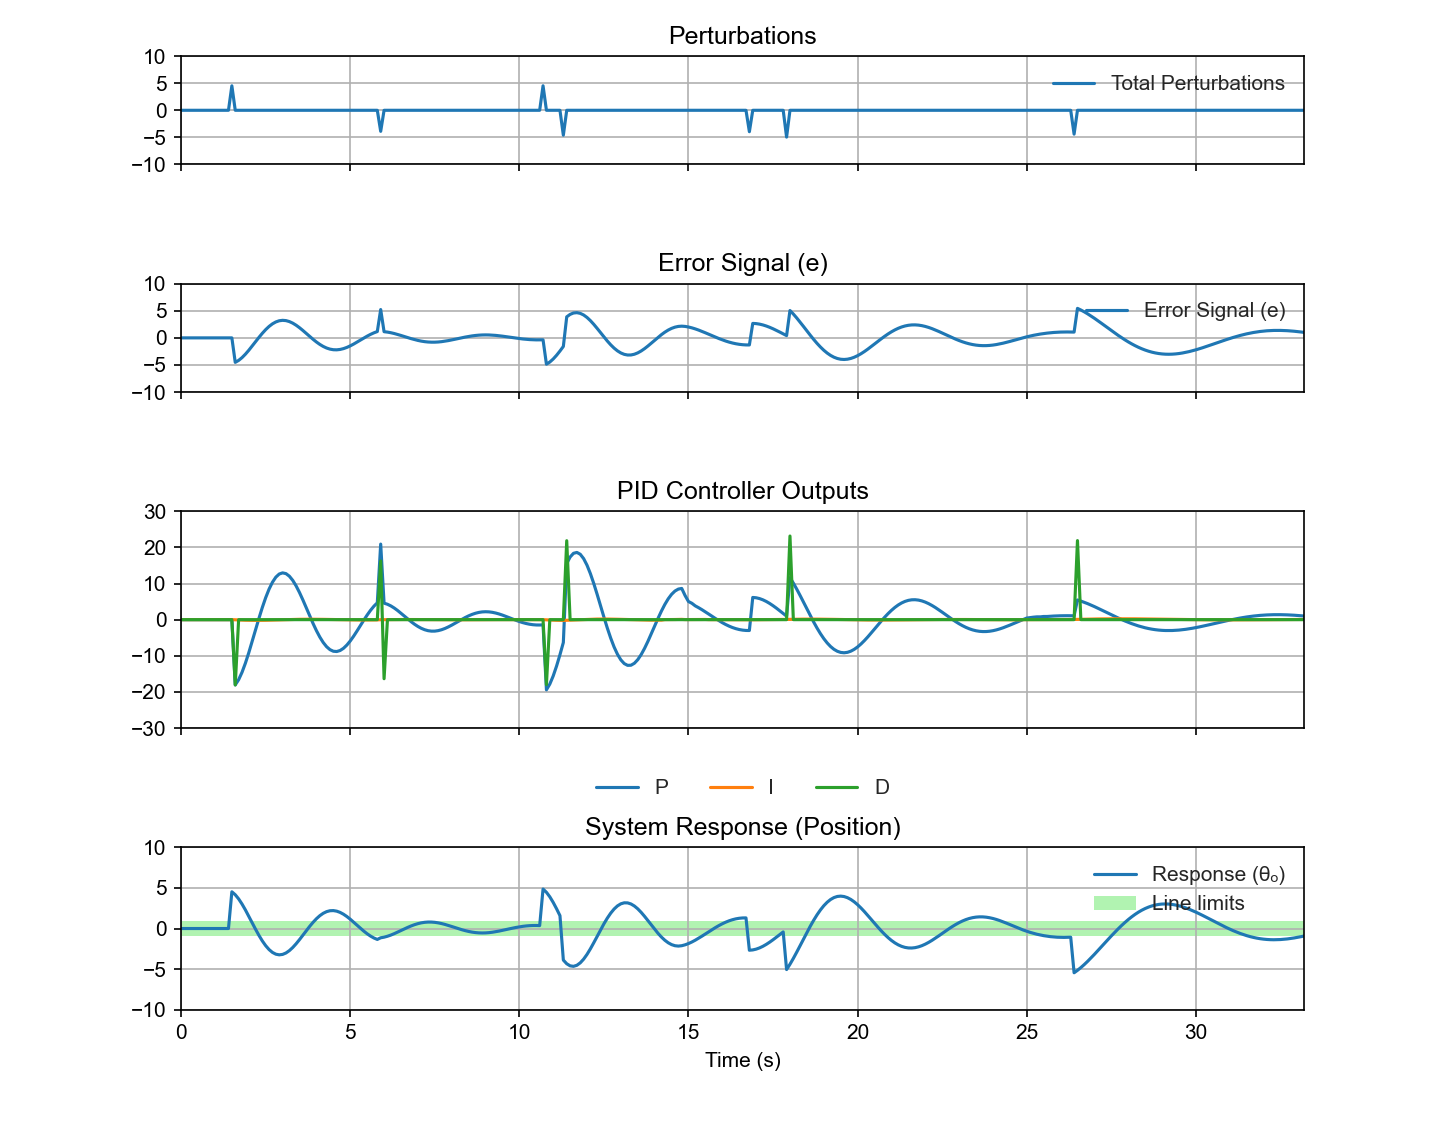
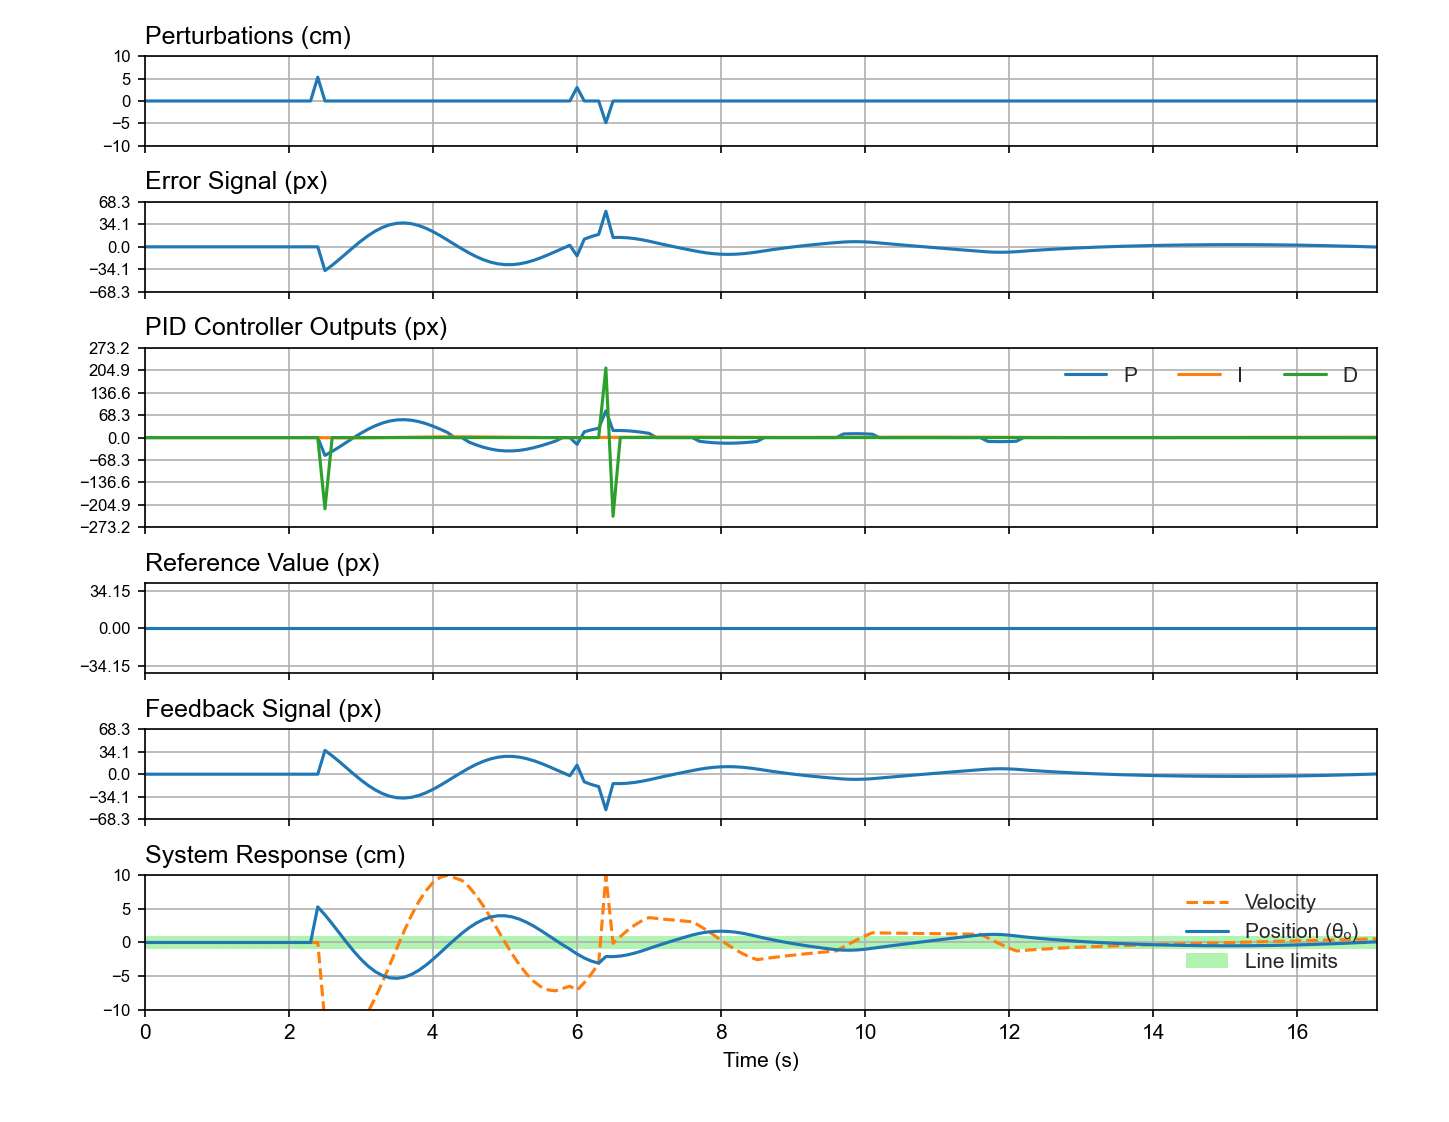
- Agregar unidades y tipos de señales - Cambiar las variables que corresponen a px

diff --git a/src/simulacion.py b/src/simulacion.py
@@ -28,7 +28,7 @@ class SliceConfig:
 KP_CONFIG = SliceConfig(name="Kp", min=0.0, max=10.0, initial=INITIAL_KP)
 KI_CONFIG = SliceConfig(name="Ki", min=0.0, max=0.9, initial=INITIAL_KI)
 KD_CONFIG = SliceConfig(name="Kd", min=0.0, max=1.0, initial=INITIAL_KD)
-REFERENCE_CONFIG = SliceConfig(name="Reference", min=-5.0, max=5.0, initial=INITIAL_REFERENCE_VALUE)
+REFERENCE_CONFIG = SliceConfig(name="Reference", min=-5.0*control.PX_CM_RELATION, max=5.0*control.PX_CM_RELATION, initial=INITIAL_REFERENCE_VALUE)
 
 # --- GUI Application ---
 
@@ -80,7 +80,7 @@ class App(ctk.CTk):
         self.graph_toggles = []
         graph_names = [
             "Perturbations", "Error", "PID", "Reference",
-            "Feedback", "Position & Velocity"
+            "Feedback", "Position"
         ]
 
         for i, name in enumerate(graph_names):
@@ -196,27 +196,27 @@ class App(ctk.CTk):
             'resp': self.axes[5].plot([], [], label='Position (θₒ)', color='tab:blue')[0]
         }
 
-        self.axes[0].set_title("Perturbations", loc='left', fontsize=12)
-        self.axes[1].set_title("Error Signal (e)", loc='left', fontsize=12)
-        self.axes[2].set_title("PID Controller Outputs", loc='left', fontsize=12)
-        self.axes[3].set_title("Reference Value", loc='left', fontsize=12)
-        self.axes[4].set_title("Feedback Signal", loc='left', fontsize=12)
-        self.axes[5].set_title("System Response", loc='left', fontsize=12)
+        self.axes[0].set_title("Perturbations (cm)", loc='left', fontsize=12)
+        self.axes[1].set_title("Error Signal (px)", loc='left', fontsize=12)
+        self.axes[2].set_title("PID Controller Outputs (px)", loc='left', fontsize=12)
+        self.axes[3].set_title("Reference Value (px)", loc='left', fontsize=12)
+        self.axes[4].set_title("Feedback Signal (px)", loc='left', fontsize=12)
+        self.axes[5].set_title("System Response (cm)", loc='left', fontsize=12)
         self.axes[5].set_xlabel("Time (s)")
 
         self.axes[0].set_ylim(-10, 10)
-        self.axes[1].set_ylim(-10, 10)
-        self.axes[2].set_ylim(-40, 40)
-        self.axes[3].set_ylim(-6, 6)
-        self.axes[4].set_ylim(-10, 10)
+        self.axes[1].set_ylim(-10*control.PX_CM_RELATION, 10*control.PX_CM_RELATION)
+        self.axes[2].set_ylim(-40*control.PX_CM_RELATION, 40*control.PX_CM_RELATION)
+        self.axes[3].set_ylim(-6*control.PX_CM_RELATION, 6*control.PX_CM_RELATION)
+        self.axes[4].set_ylim(-10*control.PX_CM_RELATION, 10*control.PX_CM_RELATION)
         self.axes[5].set_ylim(-10, 10)
         self.axes[5].axhspan(-(control.LINE_WIDTH)/2, control.LINE_WIDTH/2, facecolor='lightgreen', alpha=0.7, label='Line limits')
 
         self.axes[0].set_yticks(np.arange(-10, 11, 5))
-        self.axes[1].set_yticks(np.arange(-10, 11, 5))
-        self.axes[2].set_yticks(np.arange(-40, 41, 10))
-        self.axes[3].set_yticks(np.arange(-6, 7, 5))
-        self.axes[4].set_yticks(np.arange(-10, 11, 5))
+        self.axes[1].set_yticks(np.arange(-10*control.PX_CM_RELATION, 11*control.PX_CM_RELATION, 5*control.PX_CM_RELATION))
+        self.axes[2].set_yticks(np.arange(-40*control.PX_CM_RELATION, 41*control.PX_CM_RELATION, 10*control.PX_CM_RELATION))
+        self.axes[3].set_yticks(np.arange(-5*control.PX_CM_RELATION, 6*control.PX_CM_RELATION, 5*control.PX_CM_RELATION))
+        self.axes[4].set_yticks(np.arange(-10*control.PX_CM_RELATION, 11*control.PX_CM_RELATION, 5*control.PX_CM_RELATION))
         self.axes[5].set_yticks(np.arange(-10, 11, 5))
 
         for i, ax in enumerate(self.axes):
@@ -227,6 +227,7 @@ class App(ctk.CTk):
                 if labels:
                     ax.legend(loc='upper right')
             ax.grid(True)
+            ax.tick_params(axis='y', labelsize=8)
 
         self.canvas = FigureCanvasTkAgg(self.fig, master=self.plot_frame)
         self.canvas.get_tk_widget().pack(side=ctk.TOP, fill=ctk.BOTH, expand=True)

diff --git a/src/control.py b/src/control.py
@@ -1,21 +1,30 @@
 # Constants
 ## Scan
-DT = 0.1                        # (ms)      # Defines how much virtual time advances per simulation cycle
-
-## Controller
-PROPORTIONAL_THRESHOLD = 1      # (px)
-MIN_DERIVATIVE_SLOPE = 3        
+DT = 0.1                                    # (ms)      # Defines how much virtual time advances per simulation cycle      
 
 ## Context
-FLOOR_DAMPING = 0.5             # (kg/s) 
-LINE_WIDTH = 1.8                # (cm)
-PX_CM_RELATION = 6.83           # (px/cm)
+FLOOR_DAMPING = 0.5                         # (kg/s) 
+LINE_WIDTH = 1.8                            # (cm)
+PX_CM_RELATION = 6.83                       # (px/cm)
+V_CM_RELATION = 3                           # (V/cm)
+
+## Controller
+PROPORTIONAL_THRESHOLD = 1 * PX_CM_RELATION # (px)
+MIN_DERIVATIVE_SLOPE = 4 * PX_CM_RELATION      
 
 ## Robot
-ROBOT_MASS = 1.0                # (kg)  
+ROBOT_MASS = 1.0                            # (kg)  
 
 ## History
-POINTS_OF_HISTORY = 500                     # Number of data points to show on the graphs
+POINTS_OF_HISTORY = 500                                 # Number of data points to show on the graphs
+
+# reference (theta_i) -> px
+# error (e) -> px
+# pid_output -> volts
+# response (theta_0) -> cm
+# light_perturbation (Pl) -> cm
+# movement_perturbation (Pm) -> cm
+# camera_output -> px
 
 class PIDController:
     def __init__(self, Kp, Kd, Ki):
@@ -37,7 +46,7 @@ class PIDController:
         i_term = self.Ki * self.integral
 
         # Derivative
-        if abs(error - self.previous_error) > MIN_DERIVATIVE_SLOPE :
+        if abs(error - self.previous_error) > MIN_DERIVATIVE_SLOPE:
             derivative = (error - self.previous_error) / DT
         else: 
             derivative = 0
@@ -59,10 +68,10 @@ class RobotModel:
         self.x_axis_position = 0.0 # At the center of the line
         self.x_axis_velocity = 0.0 # Moves straight ahead
 
-    def update(self, motor_voltage_change):
+    def update(self, motor_voltage): 
         # Positive means the motor pushes to the right
         # Negative means the motor pushes to the left
-        x_axis_acceleration = (motor_voltage_change - FLOOR_DAMPING * self.x_axis_velocity) / ROBOT_MASS
+        x_axis_acceleration = (motor_voltage - FLOOR_DAMPING * self.x_axis_velocity) / ROBOT_MASS
         self.x_axis_velocity += x_axis_acceleration * DT
         self.x_axis_position += self.x_axis_velocity * DT
         return self.x_axis_position
@@ -80,14 +89,15 @@ class Simulation:
     def update(self):
         # 1. Light perturbation (Pl(t)) affects the sensor reading.
         # This creates the error signal fed into the controller.
-        feedback_signal = self.robot.x_axis_position + self.light_perturbation
+        feedback_signal = (self.robot.x_axis_position + self.light_perturbation)*PX_CM_RELATION
         error = self.reference - feedback_signal
 
         # 2. PID controller calculates the required motor voltage.
         pid_output, p, i, d = self.pid.update(error)
+        motor_voltage = pid_output/PX_CM_RELATION * V_CM_RELATION
 
         # 3. The motor acts on the robot.
-        self.robot.update(pid_output)
+        self.robot.update(motor_voltage)
 
         # 4. Movement perturbation (Pf(t)/Pi(t)) acts as a direct physical push on the robot.
         self.robot.x_axis_position += self.movement_perturbation

diff --git a/TO-DO.md b/TO-DO.md
@@ -3,17 +3,15 @@
 ## 🔧 En progreso
 
 - [ ] Interfaz responsive
-- [ ] Valor de referencia ajustable
 
 ## 📌 Por hacer (Backlog)
 
-- [ ] Encontrar buenos valores para kp, ki, kd (Señales digitales - pixeles)
+- [ ] Mejorar yticks de px (números redondos)
+- [ ] Encontrar buenos valores para kp, ki, kd
 - [ ] Chequear controladores 
   - [ ] Controlador integral (errores anteriores VS mismo scan) - en este momento no hace nada
   - [ ] Chequear direcciones de los controladores, más que nada derivativo
   - [ ] Proporcional ON-OFF o por umbrales
-- [ ] Agregar unidades y tipos de señales
-- [ ] Cambiar las variables que corresponen a px (ej. feedback_signal)
 - [ ] Chequear que quede actualizado el requirements.txt, readme, informe
 - [ ] Chequear que no se vaya de los +-10cm el robot en position
 
@@ -38,3 +36,6 @@
 - [X] Hacer que se vea la línea de posición por sobre la de velocidad
 - [X] Permitir ocultar y mostrar cada gráfico
 - [X] Sacar etiquetas redundantes
+- [X] Valor de referencia ajustable
+- [X] Agregar unidades y tipos de señales
+- [X] Cambiar las variables que corresponen a px (ej. feedback_signal)
